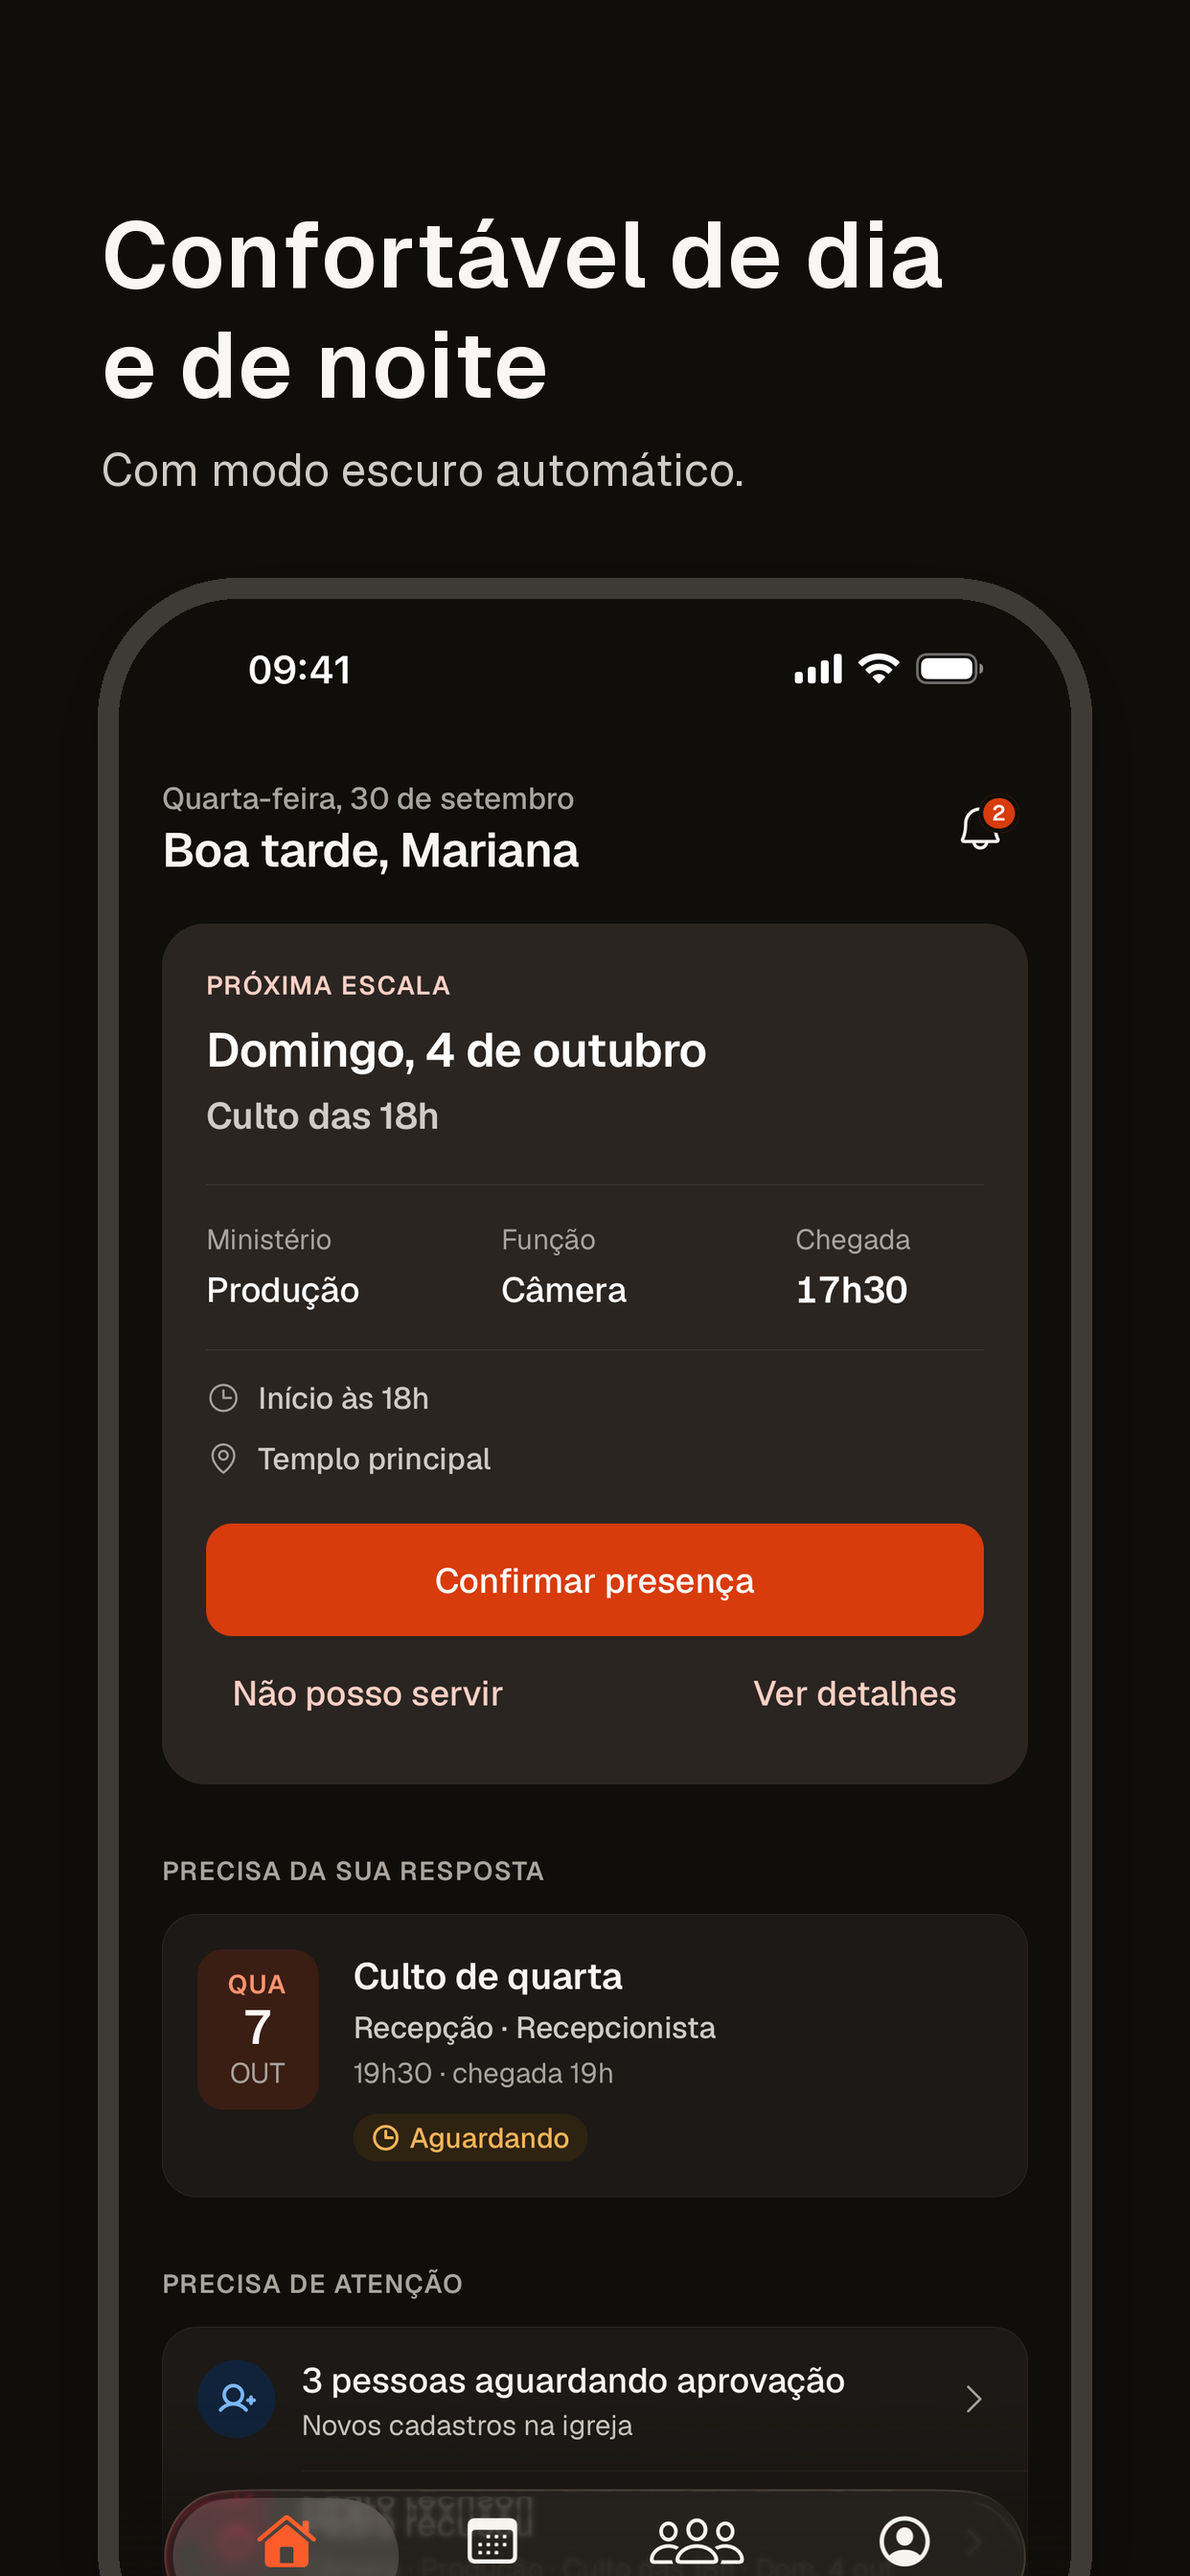
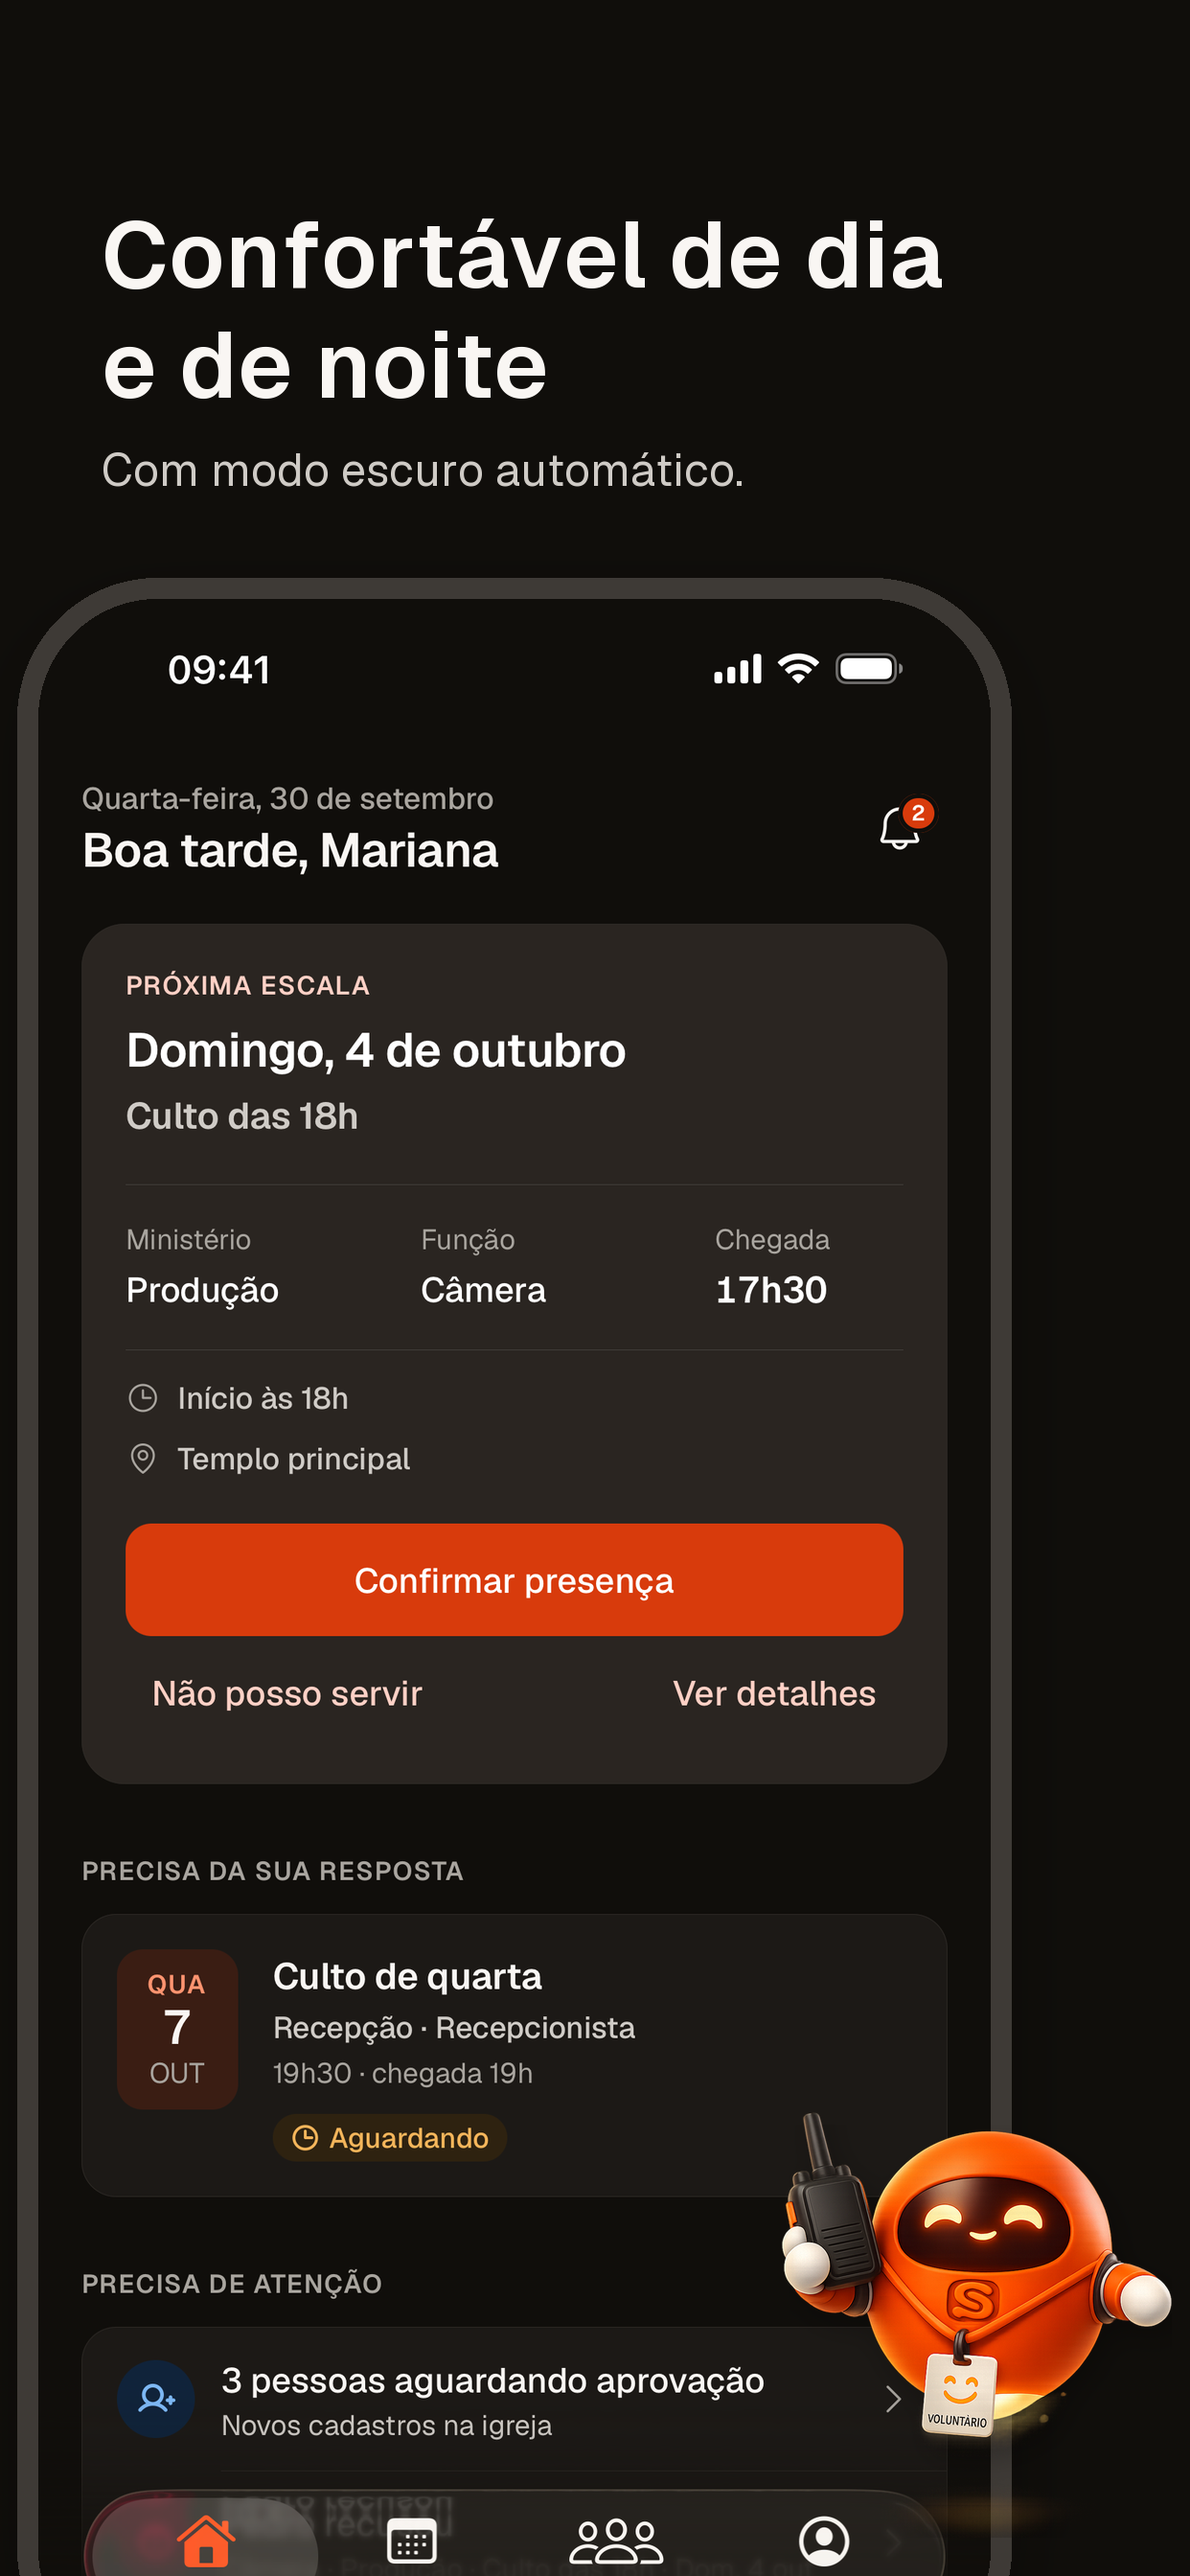
chore(store): mascote Servo nas capturas 1 e 7 (ao lado do app em uso)
A primeira captura passa a ter fundo claro, para o mascote laranja
aparecer. O mascote fica junto da tela do app (regra 2.3 da App Store).

diff --git a/store/make_store_images.py b/store/make_store_images.py
@@ -26,15 +26,17 @@ ON_BRAND = (245, 237, 228)
 NIGHT = (16, 14, 11)
 NIGHT_2 = (207, 203, 198)
 
-# (arquivo, título, subtítulo, tema)
+# (arquivo, título, subtítulo, tema[, mascote])
+# Mascote: o Servo do site (assets/mascot), saindo pela lateral do celular.
+# Fica junto da tela do app — a Apple pede capturas do app em uso.
 SLIDES = [
-    ("01-inicio", "Sua próxima escala,\nsempre à vista", "Confirme presença com um toque.", "brand"),
+    ("01-inicio", "Sua próxima escala,\nsempre à vista", "Confirme presença com um toque.", "light", "acenando"),
     ("02-escala", "Tudo o que você\nprecisa saber", "Chegada, local, função e observações.", "light"),
     ("03-conversa", "Recados da equipe\nno lugar certo", "Uma conversa para cada escala.", "light"),
     ("04-repertorio", "O repertório do\nlouvor organizado", "Tom, cifra e vídeo de cada música.", "light"),
     ("05-calendario", "Seu mês de serviço\nnum relance", "E salve na agenda com lembrete.", "light"),
     ("06-equipe", "Para líderes: a equipe\nna palma da mão", "Monte escalas e acompanhe confirmações.", "light"),
-    ("07-escuro", "Confortável de dia\ne de noite", "Com modo escuro automático.", "dark"),
+    ("07-escuro", "Confortável de dia\ne de noite", "Com modo escuro automático.", "dark", "aviso"),
 ]
 
 THEMES = {
@@ -82,7 +84,21 @@ def text_block(draw, x, y, text, font, fill, line_gap):
     return y
 
 
-def slide(name, title, sub, theme, size) -> Image.Image:
+def mascot(pose: str, height: int) -> Image.Image:
+    im = Image.open(APP / f"assets/mascot/{pose}.png").convert("RGBA")
+    w = round(im.width * height / im.height)
+    im = im.resize((w, height), Image.LANCZOS)
+    # Sombra suave no chão, para "pousar" sobre o celular.
+    canvas = Image.new("RGBA", (w, height), (0, 0, 0, 0))
+    shadow = Image.new("RGBA", (w, height), (0, 0, 0, 0))
+    a = im.split()[3].point(lambda v: 60 if v > 10 else 0)
+    shadow.putalpha(a)
+    canvas.alpha_composite(shadow.filter(ImageFilter.GaussianBlur(height * 0.03)), (round(w * 0.02), round(height * 0.03)))
+    canvas.alpha_composite(im)
+    return canvas
+
+
+def slide(name, title, sub, theme, size, pose=None) -> Image.Image:
     W, H = size
     t = THEMES[theme]
     img = Image.new("RGBA", (W, H), t["bg"] + (255,))
@@ -96,7 +112,13 @@ def slide(name, title, sub, theme, size) -> Image.Image:
     shot = Image.open(RAW / f"{name}.png")
     phone = device(shot, round(W * 0.8), (62, 58, 54) if theme == "dark" else (20, 18, 16))
     top = y + round(H * 0.035) - round(W * 0.8 * 0.08)
-    img.alpha_composite(phone, ((W - phone.width) // 2, top))
+    if pose:
+        # Celular um pouco à esquerda; o mascote sai pela direita, embaixo.
+        img.alpha_composite(phone, (round(-W * 0.05), top))
+        m = mascot(pose, round(min(W * 0.38, H * 0.165)))
+        img.alpha_composite(m, (W - m.width - round(W * 0.015), H - m.height - round(H * 0.015)))
+    else:
+        img.alpha_composite(phone, ((W - phone.width) // 2, top))
     return img.convert("RGB")
 
 
@@ -132,8 +154,8 @@ def main():
     for folder, size in targets.items():
         out = ROOT / folder
         out.mkdir(parents=True, exist_ok=True)
-        for i, (name, title, sub, theme) in enumerate(SLIDES, 1):
-            slide(name, title, sub, theme, size).save(out / f"{i:02d}-{name[3:]}.png", optimize=True)
+        for i, (name, title, sub, theme, *pose) in enumerate(SLIDES, 1):
+            slide(name, title, sub, theme, size, pose[0] if pose else None).save(out / f"{i:02d}-{name[3:]}.png", optimize=True)
     (ROOT / "app-store").mkdir(exist_ok=True)
     icon(1024).save(ROOT / "app-store/icone-1024.png")
     gp = ROOT / "google-play"
